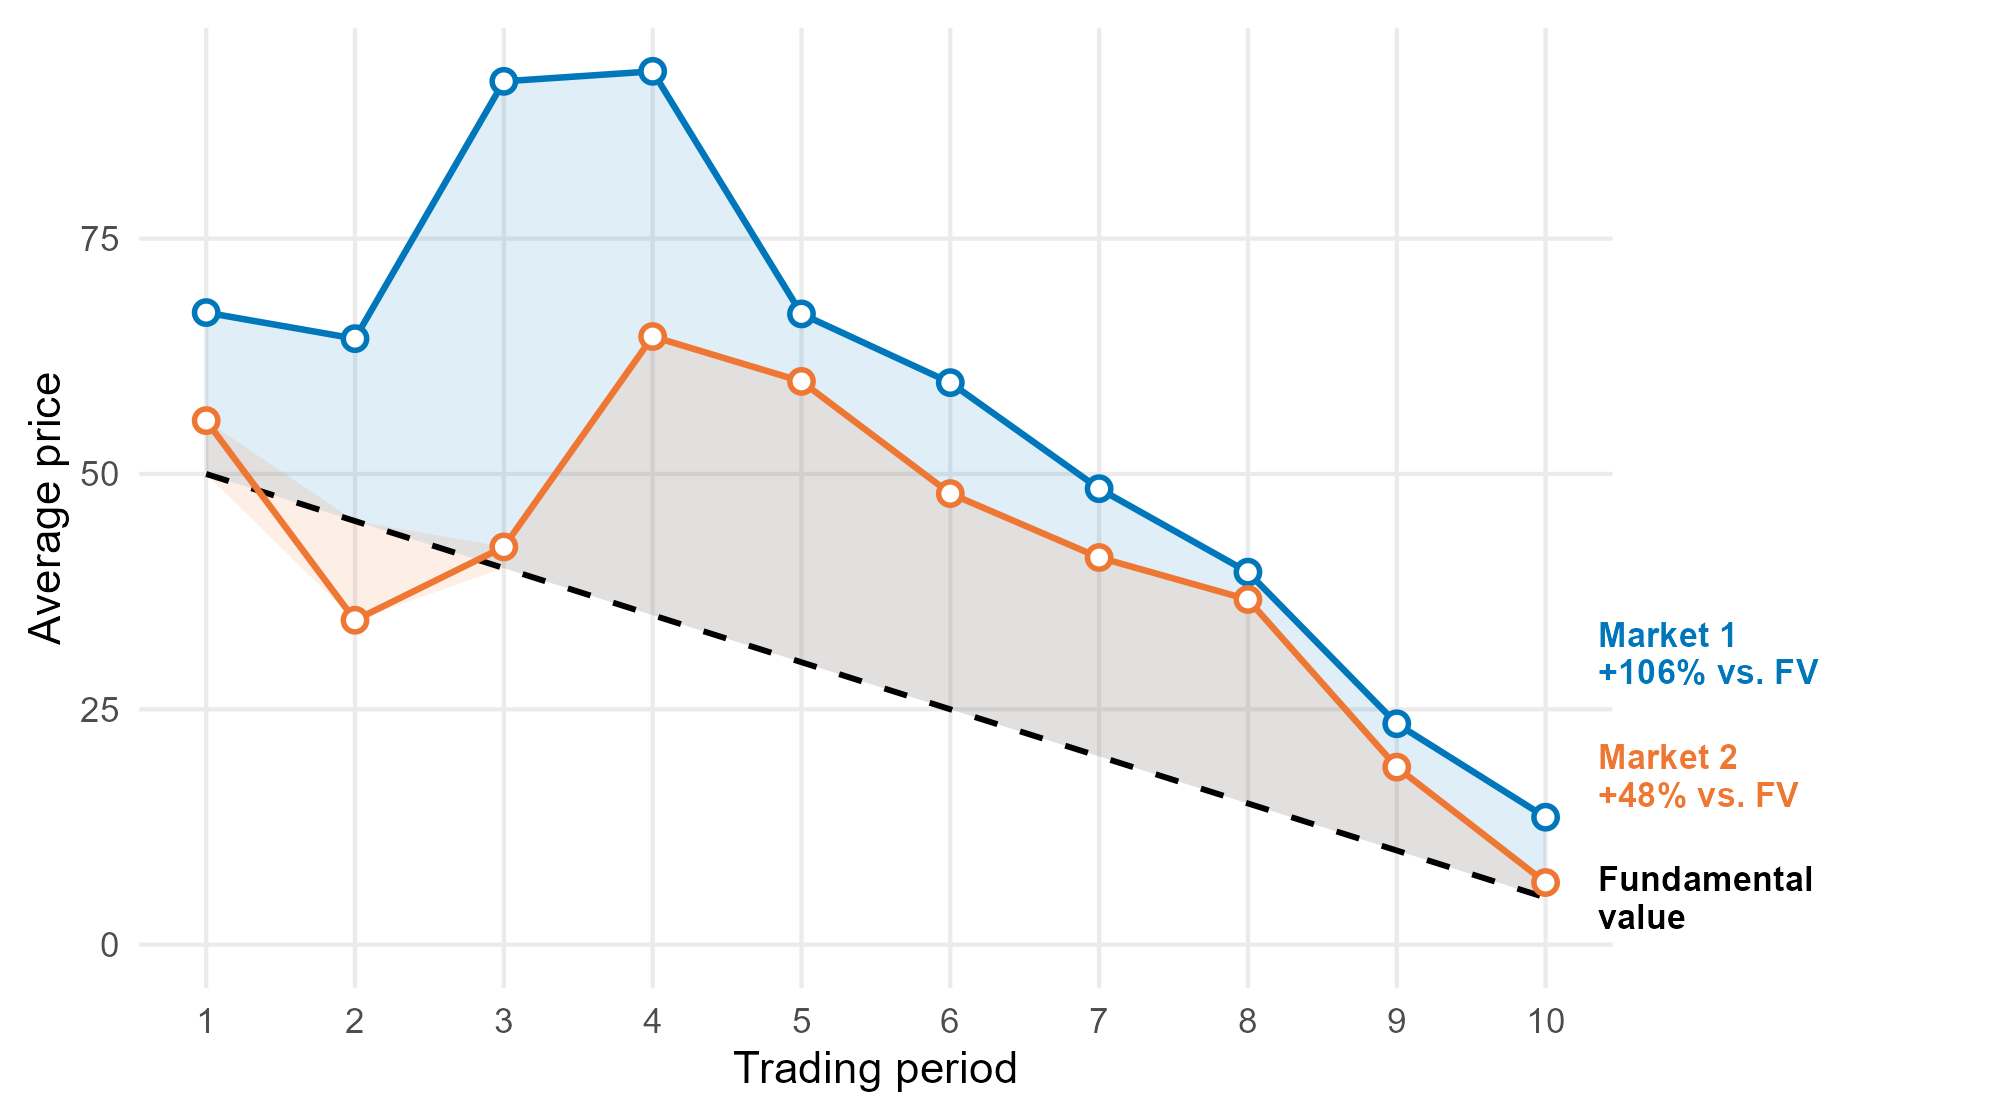
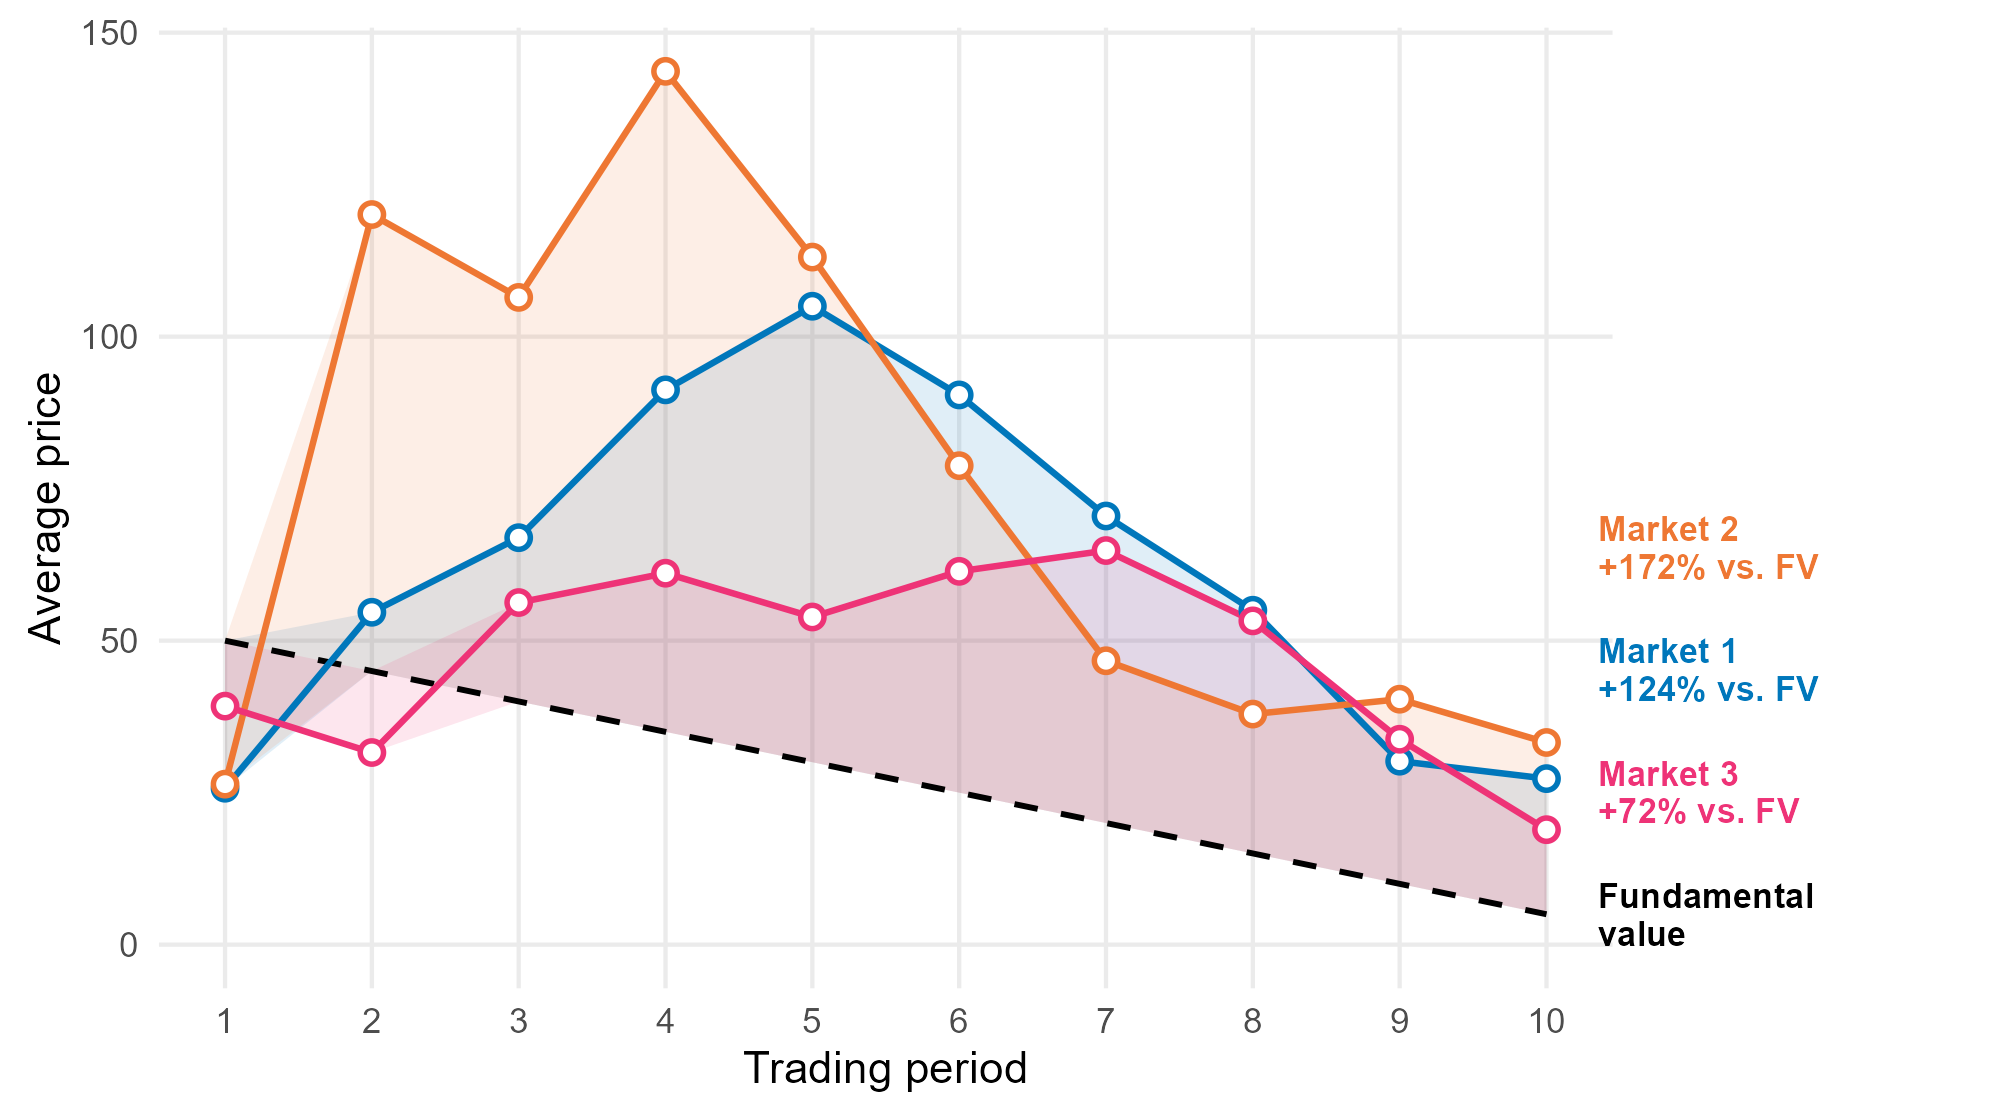
JVI 2026 slides: class results, rankings after the result charts, Takeaways

diff --git a/slides/202611-JVI-CrisisResilience/slides_jvi.html b/slides/202611-JVI-CrisisResilience/slides_jvi.html
@@ -227,29 +227,6 @@
 <p class="date">November 2026</p>
 </div>
 </section>
-<section id="earnings-from-the-experiments" class="slide level2">
-<h2>Earnings from the experiments</h2>
-<h4 id="experiment-1-1">Experiment 1</h4>
-<p><em>(rankings are shown in class only)</em></p>
-</section>
-<section id="earnings-from-the-experiments-1" class="slide level2" data-visibility="uncounted">
-<h2>Earnings from the experiments</h2>
-<h4 id="experiment-2-1">Experiment 2</h4>
-<p><em>(rankings are shown in class only)</em></p>
-<aside class="notes">
-<p>Winners of the prize draw (chance proportional to earnings) are in live/winners.txt, written by R/experiment_results.R.</p>
-<style type="text/css">
-        span.MJX_Assistive_MathML {
-          position:absolute!important;
-          clip: rect(1px, 1px, 1px, 1px);
-          padding: 1px 0 0 0!important;
-          border: 0!important;
-          height: 1px!important;
-          width: 1px!important;
-          overflow: hidden!important;
-          display:block!important;
-      }</style></aside>
-</section>
 <section id="outline" class="slide level2">
 <h2>Outline</h2>
 <ul>
@@ -525,7 +502,7 @@
 <p>→ <em>control</em></p>
 </div>
 </section>
-<section id="experiment-1-2" class="slide level2">
+<section id="experiment-1-1" class="slide level2">
 <h2>Experiment 1</h2>
 <h4 id="market-setup">Market setup</h4>
 <ul>
@@ -537,7 +514,7 @@
 </ul></li>
 </ul>
 </section>
-<section id="experiment-1-3" class="slide level2">
+<section id="experiment-1-2" class="slide level2">
 <h2>Experiment 1</h2>
 <h4 id="fundamental-value">Fundamental value</h4>
 <div class="columns">
@@ -622,7 +599,7 @@
 </table>
 </div></div>
 </section>
-<section id="experiment-1-4" class="slide level2">
+<section id="experiment-1-3" class="slide level2">
 <h2>Experiment 1</h2>
 <h4 id="your-data">Your data</h4>
 <div class="quarto-figure quarto-figure-center">
@@ -635,7 +612,7 @@
 </div>
 <aside class="notes">
 <p>Percentages in the chart are the relative deviation (RD): average over periods of (price − FV) / average FV.</p>
-<p><em>(rankings are shown in class only)</em></p>
+<p>Average overvaluation (relative deviation from FV): Market 1: +124%, Market 2: +172%, Market 3: +72%</p>
 <style type="text/css">
         span.MJX_Assistive_MathML {
           position:absolute!important;
@@ -647,6 +624,11 @@
           overflow: hidden!important;
           display:block!important;
       }</style></aside>
+</section>
+<section id="experiment-1-4" class="slide level2">
+<h2>Experiment 1</h2>
+<h4 id="your-earnings">Your earnings</h4>
+<p><em>(rankings are shown in class only)</em></p>
 </section>
 <section id="experiment-1-5" class="slide level2">
 <h2>Experiment 1</h2>
@@ -998,13 +980,9 @@
 <div class="columns">
 <div class="column small" style="width:45%;">
 <ul>
-<li>The announcement <em>“China’s economy grows by 3%”</em> would likely lead to a market crash. The message <em>“Germany’s economy grows by 3%”</em> to a positive price jump.</li>
+<li><p>The announcement <em>“China’s economy grows by 3%”</em> would likely lead to a market crash. The message <em>“Germany’s economy grows by 3%”</em> to a positive price jump.</p></li>
+<li><p>2009–2019 the Chinese economy grew by a cumulative +180%, the German economy grew by only +14%.</p></li>
 </ul>
-<div class="fragment">
-<ul>
-<li>2009–2019 the Chinese economy grew by a cumulative +180%, the German economy grew by only +14%.</li>
-</ul>
-</div>
 <div class="fragment" data-fragment-index="2">
 <ul>
 <li>However, the Chinese stock index did not grow as much as the German DAX index.</li>
@@ -1077,6 +1055,11 @@
 </div></div>
 </section>
 <section id="risk-preferences-experiment-2-1" class="slide level2">
+<h2>Risk Preferences: Experiment 2</h2>
+<h4 id="your-earnings-1">Your earnings</h4>
+<p><em>(rankings are shown in class only)</em></p>
+</section>
+<section id="risk-preferences-experiment-2-2" class="slide level2">
 <h2>Risk Preferences: Experiment 2</h2>
 <h4 id="huber-et-al.-2020-2021-1">Huber et al.&nbsp;(2020, 2021)</h4>
 <div class="small">
@@ -1398,8 +1381,8 @@
           display:block!important;
       }</style></aside>
 </section>
-<section id="what-can-policymakers-take-away" class="slide level2">
-<h2>What can policymakers take away?</h2>
+<section id="takeaways" class="slide level2">
+<h2>Takeaways</h2>
 <div class="columns">
 <div class="column small" style="width:60%;">
 <p><strong>Lab evidence from today</strong></p>
